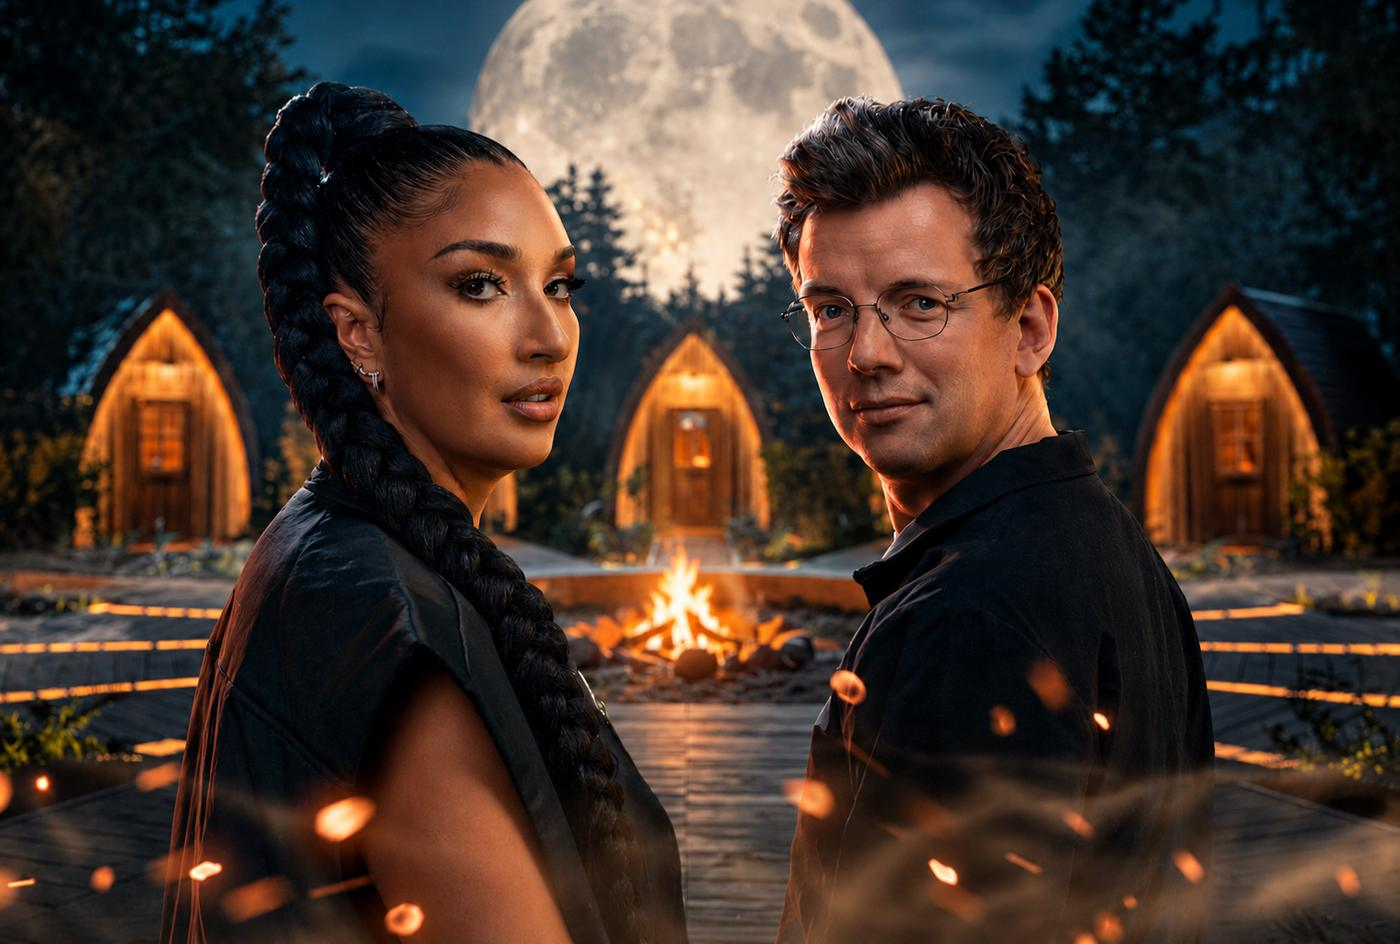
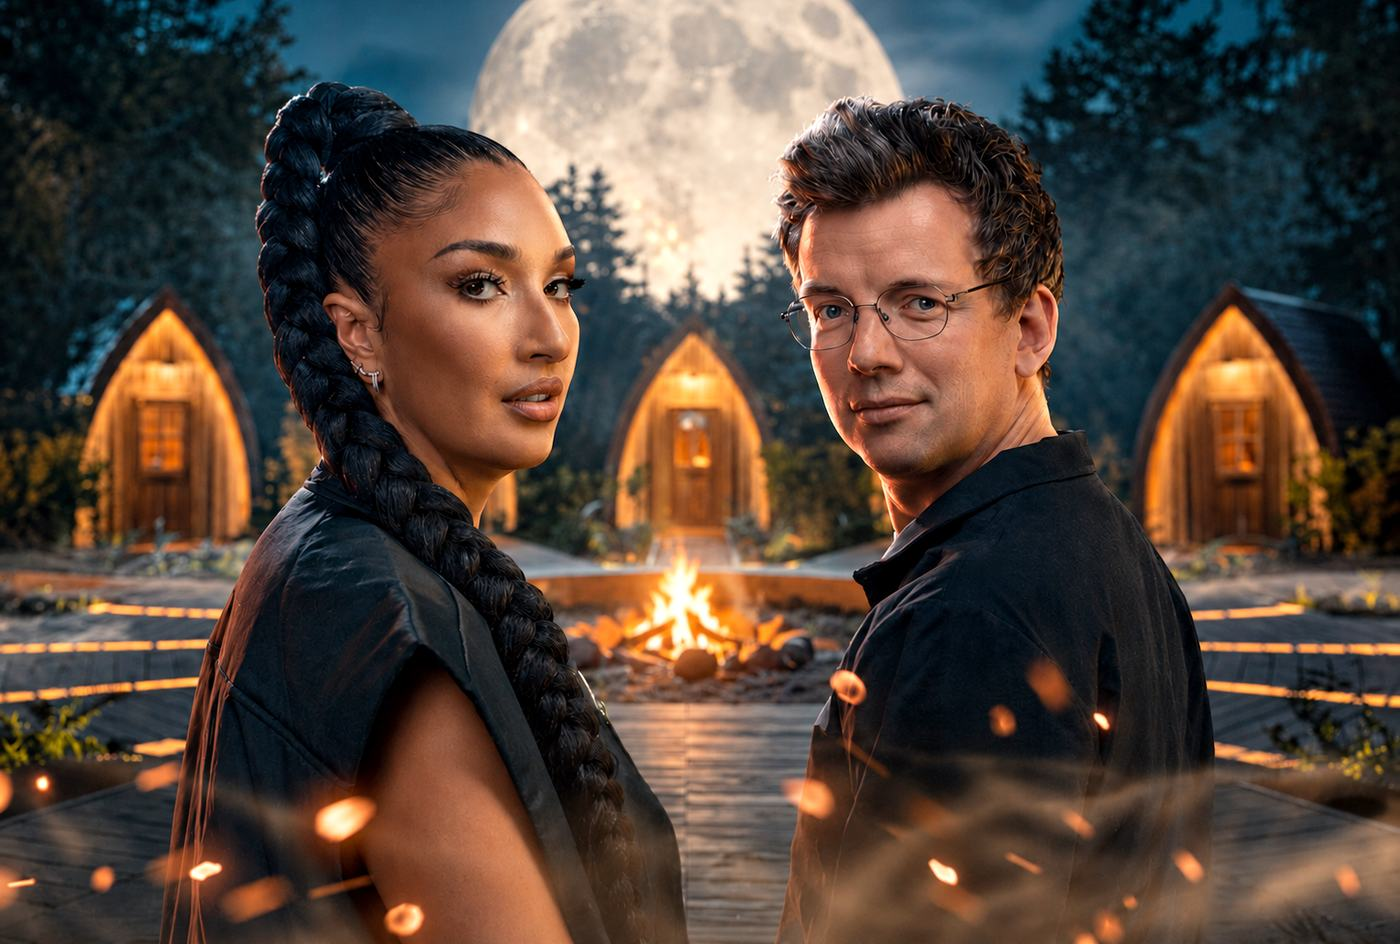
Warmer wit, De Verraders-afbeelding, lichtere Wolven-afbeelding, omschrijving Wolven
Claude-Session: https://claude.ai/code/session_011qTSZGyMUGrPKYSnjEewsZ

diff --git a/index.html b/index.html
@@ -27,7 +27,7 @@
   --sage:#5E7350;--sage-ink:#1C2A14;
   --bush:#2C3626;--bush-ink:#9DB07E;
   --olive:#5C6E21;
-  --linen:#F3EEE5;--linen-ink:#1B1B18;
+  --linen:#ECE4D5;--linen-ink:#1B1B18;
   --font:"Inter Tight","Helvetica Neue",Helvetica,Arial,sans-serif;
   color-scheme:light;
 }
@@ -348,7 +348,7 @@ body,.band,.dark,.light,nav,body::before,.overlay,.ppage,.pbar,.viewer{backgroun
 <footer class="dark"><div class="wrap small"><span>© 2026 Maarten Post</span><span>Director · Amsterdam · Cape Town</span></div></footer>
 
 
-<script>window.DIMS={"img/streaming-last-one-standing-cover.jpg":[1400, 788],"img/streaming-house-of-villains-cover.jpg":[1400, 786],"img/tv-wolven-cover.jpg":[1400, 944],"img/tv-wolven-1.jpg":[1050, 1400],"img/tv-wolven-2.jpg":[1050, 1400],"img/tv-wolven-3.jpg":[1050, 1400],"img/tv-wolven-4.jpg":[787, 1400],"img/tv-wolven-5.jpg":[787, 1400],"img/tv-wolven-6.jpg":[1060, 1400],"img/tv-wolven-7.jpg":[787, 1400],"img/tv-wolven-8.jpg":[1050, 1400],"img/tv-wolven-9.jpg":[787, 1400],"img/tv-wolven-10.jpg":[1400, 832],"img/tv-wolven-11.jpg":[953, 1400],"img/tv-wolven-12.jpg":[1400, 788],"img/tv-wolven-13.jpg":[1400, 788],"img/tv-wolven-14.jpg":[1400, 788],"img/tv-wolven-15.jpg":[787, 1400],"img/tv-wolven-16.jpg":[787, 1400],"img/tv-wolven-17.jpg":[812, 1400],"img/tv-wolven-18.jpg":[1400, 788],"img/tv-wolven-19.jpg":[1400, 787],"img/commercial-djvt-still-1.jpg":[1400,789],"img/commercial-djvt-still-2.jpg":[1400,596],"img/commercial-djvt-still-3.jpg":[1400,594],"img/commercial-djvt-still-4.jpg":[1400,597],"img/commercial-djvt-still-5.jpg":[1400,596],"img/commercial-djvt-still-6.jpg":[1400,604],"img/commercial-djvt-still-7.jpg":[1400,590],"img/commercial-lalalies-close.jpg":[1400,933],"img/commercial-lalalies-meisje.jpg":[1400,933],"img/commercial-lalalies-raymond.jpg":[1400,933],"img/commercial-lalalies-tafel.jpg":[1400,933],"img/commercial-ogb-5-jaar-close-1.jpg":[1400,933],"img/commercial-ogb-5-jaar-ogb-5-jaar.jpg":[1400,933],"img/commercial-ogb-5-jaar-olcay.jpg":[1400,933],"img/commercial-ogb-kerst-caroussel.jpg":[1400,933],"img/commercial-ogb-kerst-ogb-kerst.jpg":[1400,933],"img/commercial-ogb-kerst-product-1.jpg":[1400,933],"img/commercial-ogb-kerst-product-2.jpg":[1400,933],"img/snapshots-bram.jpg":[1400,933],"img/snapshots-jardanie.jpg":[1400,933],"img/snapshots-kenia-1.jpg":[933,1400],"img/snapshots-kenia-10.jpg":[933,1400],"img/snapshots-kenia-11.jpg":[1400,933],"img/snapshots-kenia-12.jpg":[1400,933],"img/snapshots-kenia-2.jpg":[1400,933],"img/snapshots-kenia-3.jpg":[976,1400],"img/snapshots-kenia-4.jpg":[1400,805],"img/snapshots-kenia-5.jpg":[1400,933],"img/snapshots-kenia-6.jpg":[897,1400],"img/snapshots-kenia-7.jpg":[1400,933],"img/snapshots-kenia-8.jpg":[1400,992],"img/snapshots-kenia-9.jpg":[1016,1400],"img/snapshots-michiel.jpg":[1400,789],"img/snapshots-petra.jpg":[933,1400],"img/streaming-epic-exploring-cover.jpg":[933,1400],"img/streaming-epic-exploring-dscf5410.jpg":[1050,1400],"img/streaming-epic-exploring-dscf5605.jpg":[1400,933],"img/streaming-epic-exploring-dscf6058.jpg":[933,1400],"img/streaming-epic-exploring-dscf6070.jpg":[933,1400],"img/streaming-epic-exploring-dscf6088.jpg":[1400,933],"img/streaming-epic-exploring-dscf6124.jpg":[1400,933],"img/streaming-heels-in-the-hay-cover.jpg":[1400,933],"img/streaming-ink-master-cover.jpg":[1400,933],"img/streaming-ink-master-dscf0005.jpg":[933,1400],"img/streaming-ink-master-dscf0018-3.jpg":[933,1400],"img/streaming-ink-master-dscf0031.jpg":[933,1400],"img/streaming-ink-master-dscf0219-2.jpg":[1400,933],"img/streaming-ink-master-dscf0274.jpg":[933,1400],"img/streaming-ink-master-dscf0285.jpg":[1400,933],"img/streaming-real-boys-cover.jpg":[1400,933],"img/television-our-farm-in-europe-cover.jpg":[1400,933],"img/television-survive-your-family-cover.jpg":[1400,933]};</script>
+<script>window.DIMS={"img/tv-de-verraders-cover.jpg":[1194, 672],"img/streaming-last-one-standing-cover.jpg":[1400, 788],"img/streaming-house-of-villains-cover.jpg":[1400, 786],"img/tv-wolven-cover.jpg":[1400, 944],"img/tv-wolven-1.jpg":[1050, 1400],"img/tv-wolven-2.jpg":[1050, 1400],"img/tv-wolven-3.jpg":[1050, 1400],"img/tv-wolven-4.jpg":[787, 1400],"img/tv-wolven-5.jpg":[787, 1400],"img/tv-wolven-6.jpg":[1060, 1400],"img/tv-wolven-7.jpg":[787, 1400],"img/tv-wolven-8.jpg":[1050, 1400],"img/tv-wolven-9.jpg":[787, 1400],"img/tv-wolven-10.jpg":[1400, 832],"img/tv-wolven-11.jpg":[953, 1400],"img/tv-wolven-12.jpg":[1400, 788],"img/tv-wolven-13.jpg":[1400, 788],"img/tv-wolven-14.jpg":[1400, 788],"img/tv-wolven-15.jpg":[787, 1400],"img/tv-wolven-16.jpg":[787, 1400],"img/tv-wolven-17.jpg":[812, 1400],"img/tv-wolven-18.jpg":[1400, 788],"img/tv-wolven-19.jpg":[1400, 787],"img/commercial-djvt-still-1.jpg":[1400,789],"img/commercial-djvt-still-2.jpg":[1400,596],"img/commercial-djvt-still-3.jpg":[1400,594],"img/commercial-djvt-still-4.jpg":[1400,597],"img/commercial-djvt-still-5.jpg":[1400,596],"img/commercial-djvt-still-6.jpg":[1400,604],"img/commercial-djvt-still-7.jpg":[1400,590],"img/commercial-lalalies-close.jpg":[1400,933],"img/commercial-lalalies-meisje.jpg":[1400,933],"img/commercial-lalalies-raymond.jpg":[1400,933],"img/commercial-lalalies-tafel.jpg":[1400,933],"img/commercial-ogb-5-jaar-close-1.jpg":[1400,933],"img/commercial-ogb-5-jaar-ogb-5-jaar.jpg":[1400,933],"img/commercial-ogb-5-jaar-olcay.jpg":[1400,933],"img/commercial-ogb-kerst-caroussel.jpg":[1400,933],"img/commercial-ogb-kerst-ogb-kerst.jpg":[1400,933],"img/commercial-ogb-kerst-product-1.jpg":[1400,933],"img/commercial-ogb-kerst-product-2.jpg":[1400,933],"img/snapshots-bram.jpg":[1400,933],"img/snapshots-jardanie.jpg":[1400,933],"img/snapshots-kenia-1.jpg":[933,1400],"img/snapshots-kenia-10.jpg":[933,1400],"img/snapshots-kenia-11.jpg":[1400,933],"img/snapshots-kenia-12.jpg":[1400,933],"img/snapshots-kenia-2.jpg":[1400,933],"img/snapshots-kenia-3.jpg":[976,1400],"img/snapshots-kenia-4.jpg":[1400,805],"img/snapshots-kenia-5.jpg":[1400,933],"img/snapshots-kenia-6.jpg":[897,1400],"img/snapshots-kenia-7.jpg":[1400,933],"img/snapshots-kenia-8.jpg":[1400,992],"img/snapshots-kenia-9.jpg":[1016,1400],"img/snapshots-michiel.jpg":[1400,789],"img/snapshots-petra.jpg":[933,1400],"img/streaming-epic-exploring-cover.jpg":[933,1400],"img/streaming-epic-exploring-dscf5410.jpg":[1050,1400],"img/streaming-epic-exploring-dscf5605.jpg":[1400,933],"img/streaming-epic-exploring-dscf6058.jpg":[933,1400],"img/streaming-epic-exploring-dscf6070.jpg":[933,1400],"img/streaming-epic-exploring-dscf6088.jpg":[1400,933],"img/streaming-epic-exploring-dscf6124.jpg":[1400,933],"img/streaming-heels-in-the-hay-cover.jpg":[1400,933],"img/streaming-ink-master-cover.jpg":[1400,933],"img/streaming-ink-master-dscf0005.jpg":[933,1400],"img/streaming-ink-master-dscf0018-3.jpg":[933,1400],"img/streaming-ink-master-dscf0031.jpg":[933,1400],"img/streaming-ink-master-dscf0219-2.jpg":[1400,933],"img/streaming-ink-master-dscf0274.jpg":[933,1400],"img/streaming-ink-master-dscf0285.jpg":[1400,933],"img/streaming-real-boys-cover.jpg":[1400,933],"img/television-our-farm-in-europe-cover.jpg":[1400,933],"img/television-survive-your-family-cover.jpg":[1400,933]};</script>
 <script>
 /* Showreel: paste a YouTube or Vimeo URL here. Empty = placeholder. */
 const SHOWREEL="";
@@ -368,9 +368,9 @@ const P=[
  {c:"streaming",t:"Epic Exploring",net:"Insight TV",prod:"Newbe",y:"2019",d:"YouTube stars Josh and Cody travel the world in search of the most spectacular abandoned locations on the planet, from a forbidden Soviet city near Berlin and a Game of Thrones film set in the Sahara, to a nuclear disaster zone in Fukushima, Japan. An adventure series that uncovers the forgotten history behind the world's most extraordinary places.",img:["img/streaming-epic-exploring-cover.jpg", "img/streaming-epic-exploring-dscf6088.jpg", "img/streaming-epic-exploring-dscf5605.jpg", "img/streaming-epic-exploring-dscf6058.jpg", "img/streaming-epic-exploring-dscf6124.jpg", "img/streaming-epic-exploring-dscf6070.jpg", "img/streaming-epic-exploring-dscf5410.jpg"]},
  {c:"streaming",t:"House of Villains",net:"Videoland",prod:"Concept Street",y:"2025",d:"The Dutch version of the American reality game show. Eight notorious reality stars live together in a villa and compete for the title of Ultimate Supervillain and a prize of €25,000. Each week the winner of the Supervillain battle gains immunity and nominates three housemates for elimination. Hosted by Soundos El Ahmadi.",img:["img/streaming-house-of-villains-cover.jpg"]},
  {c:"streaming",t:"Ink Master",sub:"Masters of the Low Countries",net:"Spike NL",prod:"Endemol Shine",y:"2017",d:"Dutch and Belgian tattoo artists compete in a series of high-pressure challenges, testing their technical skills and creativity under the watchful eye of a panel of renowned judges. Only one can claim the title of Ink Master.",img:["img/streaming-ink-master-cover.jpg", "img/streaming-ink-master-dscf0285.jpg", "img/streaming-ink-master-dscf0219-2.jpg", "img/streaming-ink-master-dscf0005.jpg", "img/streaming-ink-master-dscf0274.jpg", "img/streaming-ink-master-dscf0018-3.jpg", "img/streaming-ink-master-dscf0031.jpg"]},
- {c:"television",t:"Wolves",sub:"Wolven",net:"NPO 1 / BNNVARA",prod:"SimpelZodiak",y:"2026",d:"",img:["img/tv-wolven-cover.jpg", "img/tv-wolven-9.jpg", "img/tv-wolven-4.jpg", "img/tv-wolven-11.jpg", "img/tv-wolven-8.jpg", "img/tv-wolven-3.jpg", "img/tv-wolven-1.jpg", "img/tv-wolven-2.jpg", "img/tv-wolven-13.jpg", "img/tv-wolven-6.jpg", "img/tv-wolven-14.jpg", "img/tv-wolven-15.jpg", "img/tv-wolven-16.jpg", "img/tv-wolven-5.jpg", "img/tv-wolven-17.jpg", "img/tv-wolven-18.jpg", "img/tv-wolven-19.jpg", "img/tv-wolven-10.jpg", "img/tv-wolven-7.jpg", "img/tv-wolven-12.jpg"]},
+ {c:"television",t:"Wolves",sub:"Wolven",net:"NPO 1 / BNNVARA",prod:"SimpelZodiak",y:"2026",d:"A psychological game show based on the party game Werewolves. Thirteen participants travel to a remote forest village: ten play as villagers competing for a cash prize, while three are secretly Wolves who try to eliminate the others one by one. Hosted by Soundos El Ahmadi and Pieter Derks, eight episodes on NPO 1, also streaming on NPO Start and Disney+.",img:["img/tv-wolven-cover.jpg", "img/tv-wolven-9.jpg", "img/tv-wolven-4.jpg", "img/tv-wolven-11.jpg", "img/tv-wolven-8.jpg", "img/tv-wolven-3.jpg", "img/tv-wolven-1.jpg", "img/tv-wolven-2.jpg", "img/tv-wolven-13.jpg", "img/tv-wolven-6.jpg", "img/tv-wolven-14.jpg", "img/tv-wolven-15.jpg", "img/tv-wolven-16.jpg", "img/tv-wolven-5.jpg", "img/tv-wolven-17.jpg", "img/tv-wolven-18.jpg", "img/tv-wolven-19.jpg", "img/tv-wolven-10.jpg", "img/tv-wolven-7.jpg", "img/tv-wolven-12.jpg"]},
  {c:"television",t:"Survive Your Family",net:"SBS6",prod:"Signal.Stream",y:"2026",d:"Four Dutch celebrity families are torn apart and thrown into the Colombian wilderness. While half of each family fights to survive in the jungle — without food, shoes or equipment — the other half battles in a base camp to send them supplies. Only one family can be reunited. An adventure reality series that puts family bonds to the ultimate test.",img:["img/television-survive-your-family-cover.jpg"]},
- {c:"television",t:"De Verraders",sub:"The Traitors Netherlands",net:"RTL 4",prod:"IDTV",y:"2022–2026",d:"The original format that sparked a global television phenomenon. In this psychological reality competition, eighteen Dutch celebrities are divided into Traitors and Faithfuls. Each night the Traitors secretly eliminate a player, while the Faithfuls attempt to expose them before the prize money runs out. Now adapted in over 30 countries worldwide, including hit versions for the BBC and Peacock in the US.",img:[]},
+ {c:"television",t:"De Verraders",sub:"The Traitors Netherlands",net:"RTL 4",prod:"IDTV",y:"2022–2026",d:"The original format that sparked a global television phenomenon. In this psychological reality competition, eighteen Dutch celebrities are divided into Traitors and Faithfuls. Each night the Traitors secretly eliminate a player, while the Faithfuls attempt to expose them before the prize money runs out. Now adapted in over 30 countries worldwide, including hit versions for the BBC and Peacock in the US.",img:["img/tv-de-verraders-cover.jpg"]},
  {c:"television",t:"The Tribute",sub:"Battle of the Bands",net:"SBS6",prod:"Talpa Entertainment Productions",y:"2022–2024",d:"Eleven tribute bands compete to prove who can best recreate the sound and energy of the world's greatest acts — from ABBA to The Rolling Stones. Judged by a professional jury, the four finalists win the ultimate prize: a live performance in front of 17,000 fans at the Ziggo Dome. A feel-good music competition that brings generations together.",img:[]},
  {c:"television",t:"Our Farm in Europe",sub:"Onze Boerderij in Europa",net:"KRO-NCRV",prod:"Blue Circle",y:"2020",d:"",img:["img/television-our-farm-in-europe-cover.jpg"]},
  {c:"commercial",t:"Olcay Gulsen Beauty",sub:"Christmas Campaign",net:"Olcay Gulsen Beauty",prod:"Campaign",y:"2024",d:"Maarten directed the festive 2024 campaign for Olcay Gulsen Beauty, celebrating the brand's signature style ahead of the holiday season.",img:["img/commercial-ogb-kerst-ogb-kerst.jpg", "img/commercial-ogb-kerst-caroussel.jpg", "img/commercial-ogb-kerst-product-1.jpg", "img/commercial-ogb-kerst-product-2.jpg"]},
